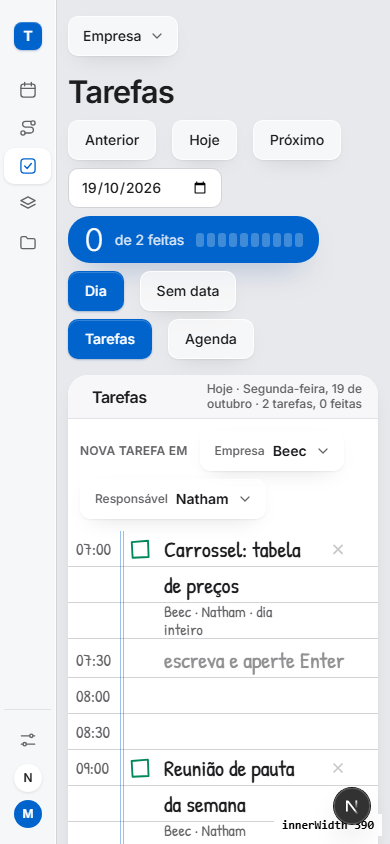
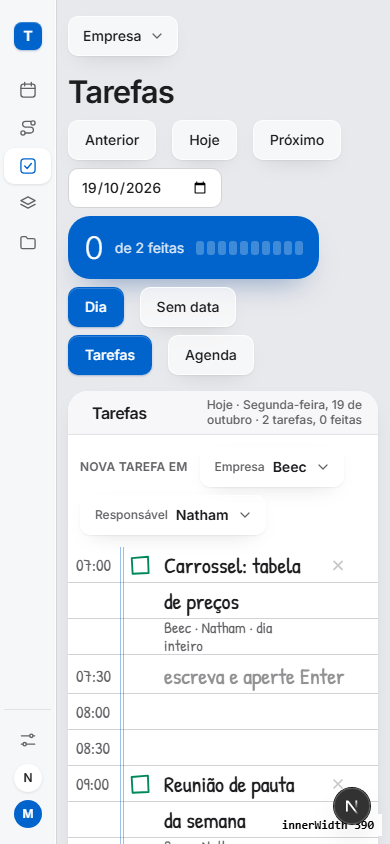
Tarefas: contador usa o raio e o padding padrao do bloco-destaque

diff --git a/src/components/tarefas/caderno.css b/src/components/tarefas/caderno.css
@@ -25,7 +25,7 @@
 }
 .tarefas-data:focus-visible { outline: 3px solid var(--foco); outline-offset: 1px; }
 /* Bloco de destaque da tela: quantas tarefas feitas (número grande sobre o azul) */
-.tarefas-contador { display: flex; align-items: center; gap: var(--s-12); margin: 0; padding: var(--s-8) var(--s-16); font-size: var(--app-t-texto); white-space: nowrap; }
+.tarefas-contador { display: flex; align-items: center; gap: var(--s-12); margin: 0; font-size: var(--app-t-texto); white-space: nowrap; }
 .tarefas-contador .bloco-numero { margin: 0; font-size: var(--t-31); }
 .medidor { display: flex; gap: 3px; }
 .medidor i { width: 8px; height: 14px; border-radius: 3px; background: linear-gradient(to right, var(--no-azul) var(--p), rgb(255 255 255 / 0.25) var(--p)); }
